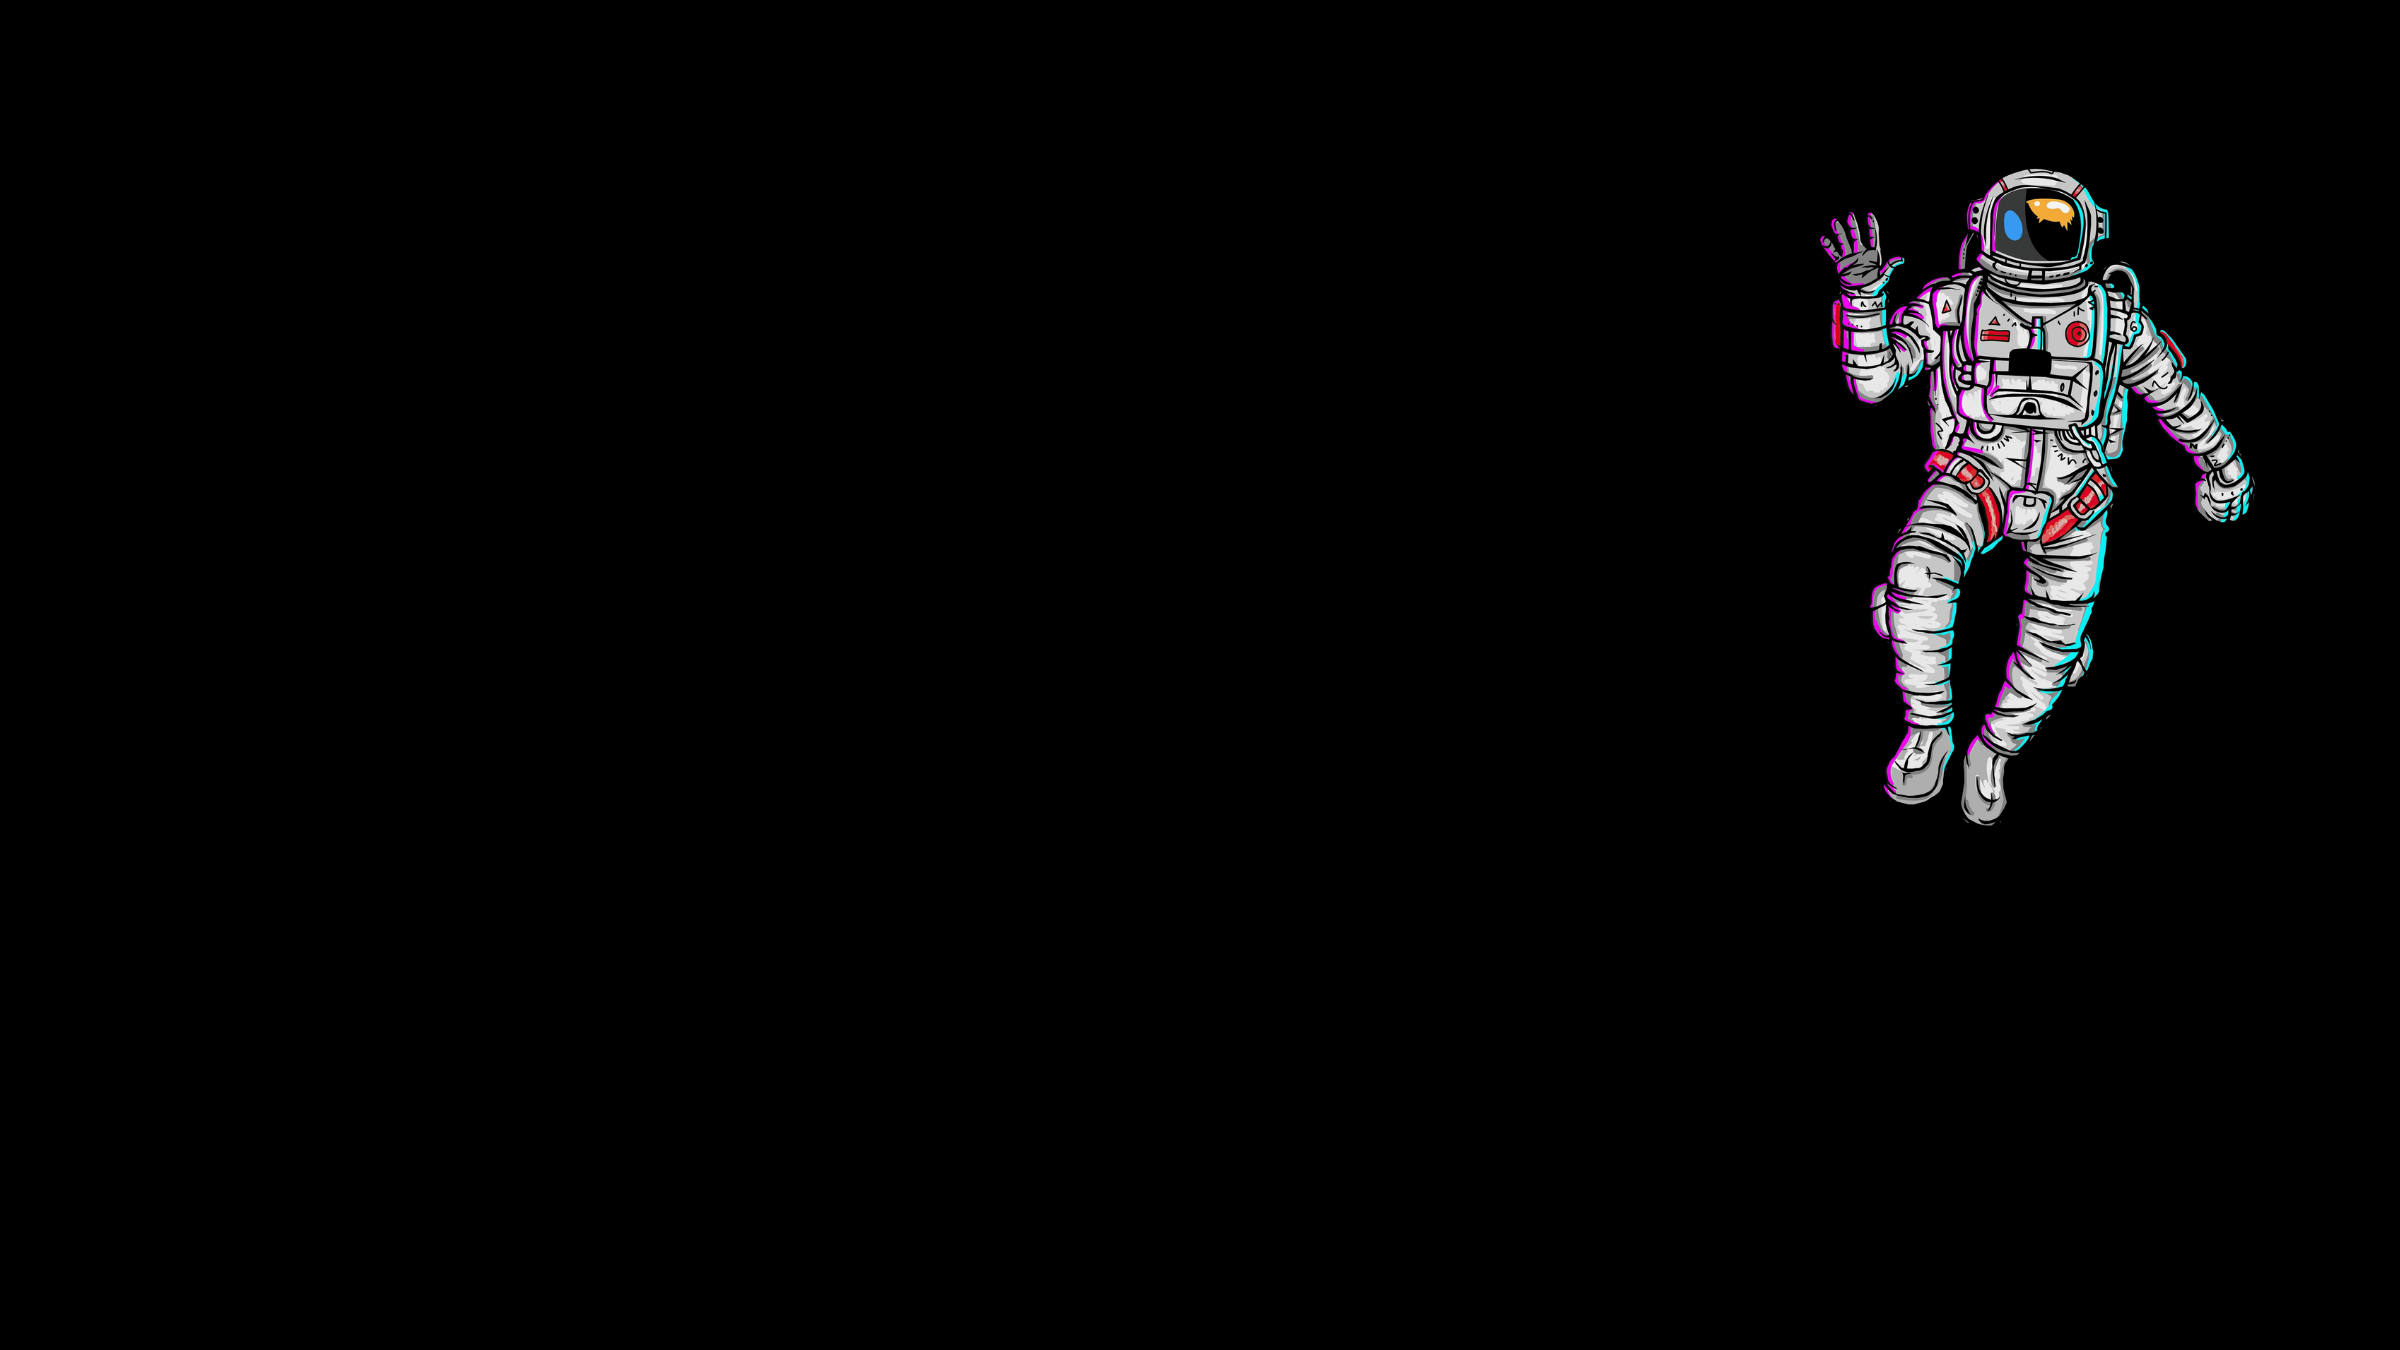
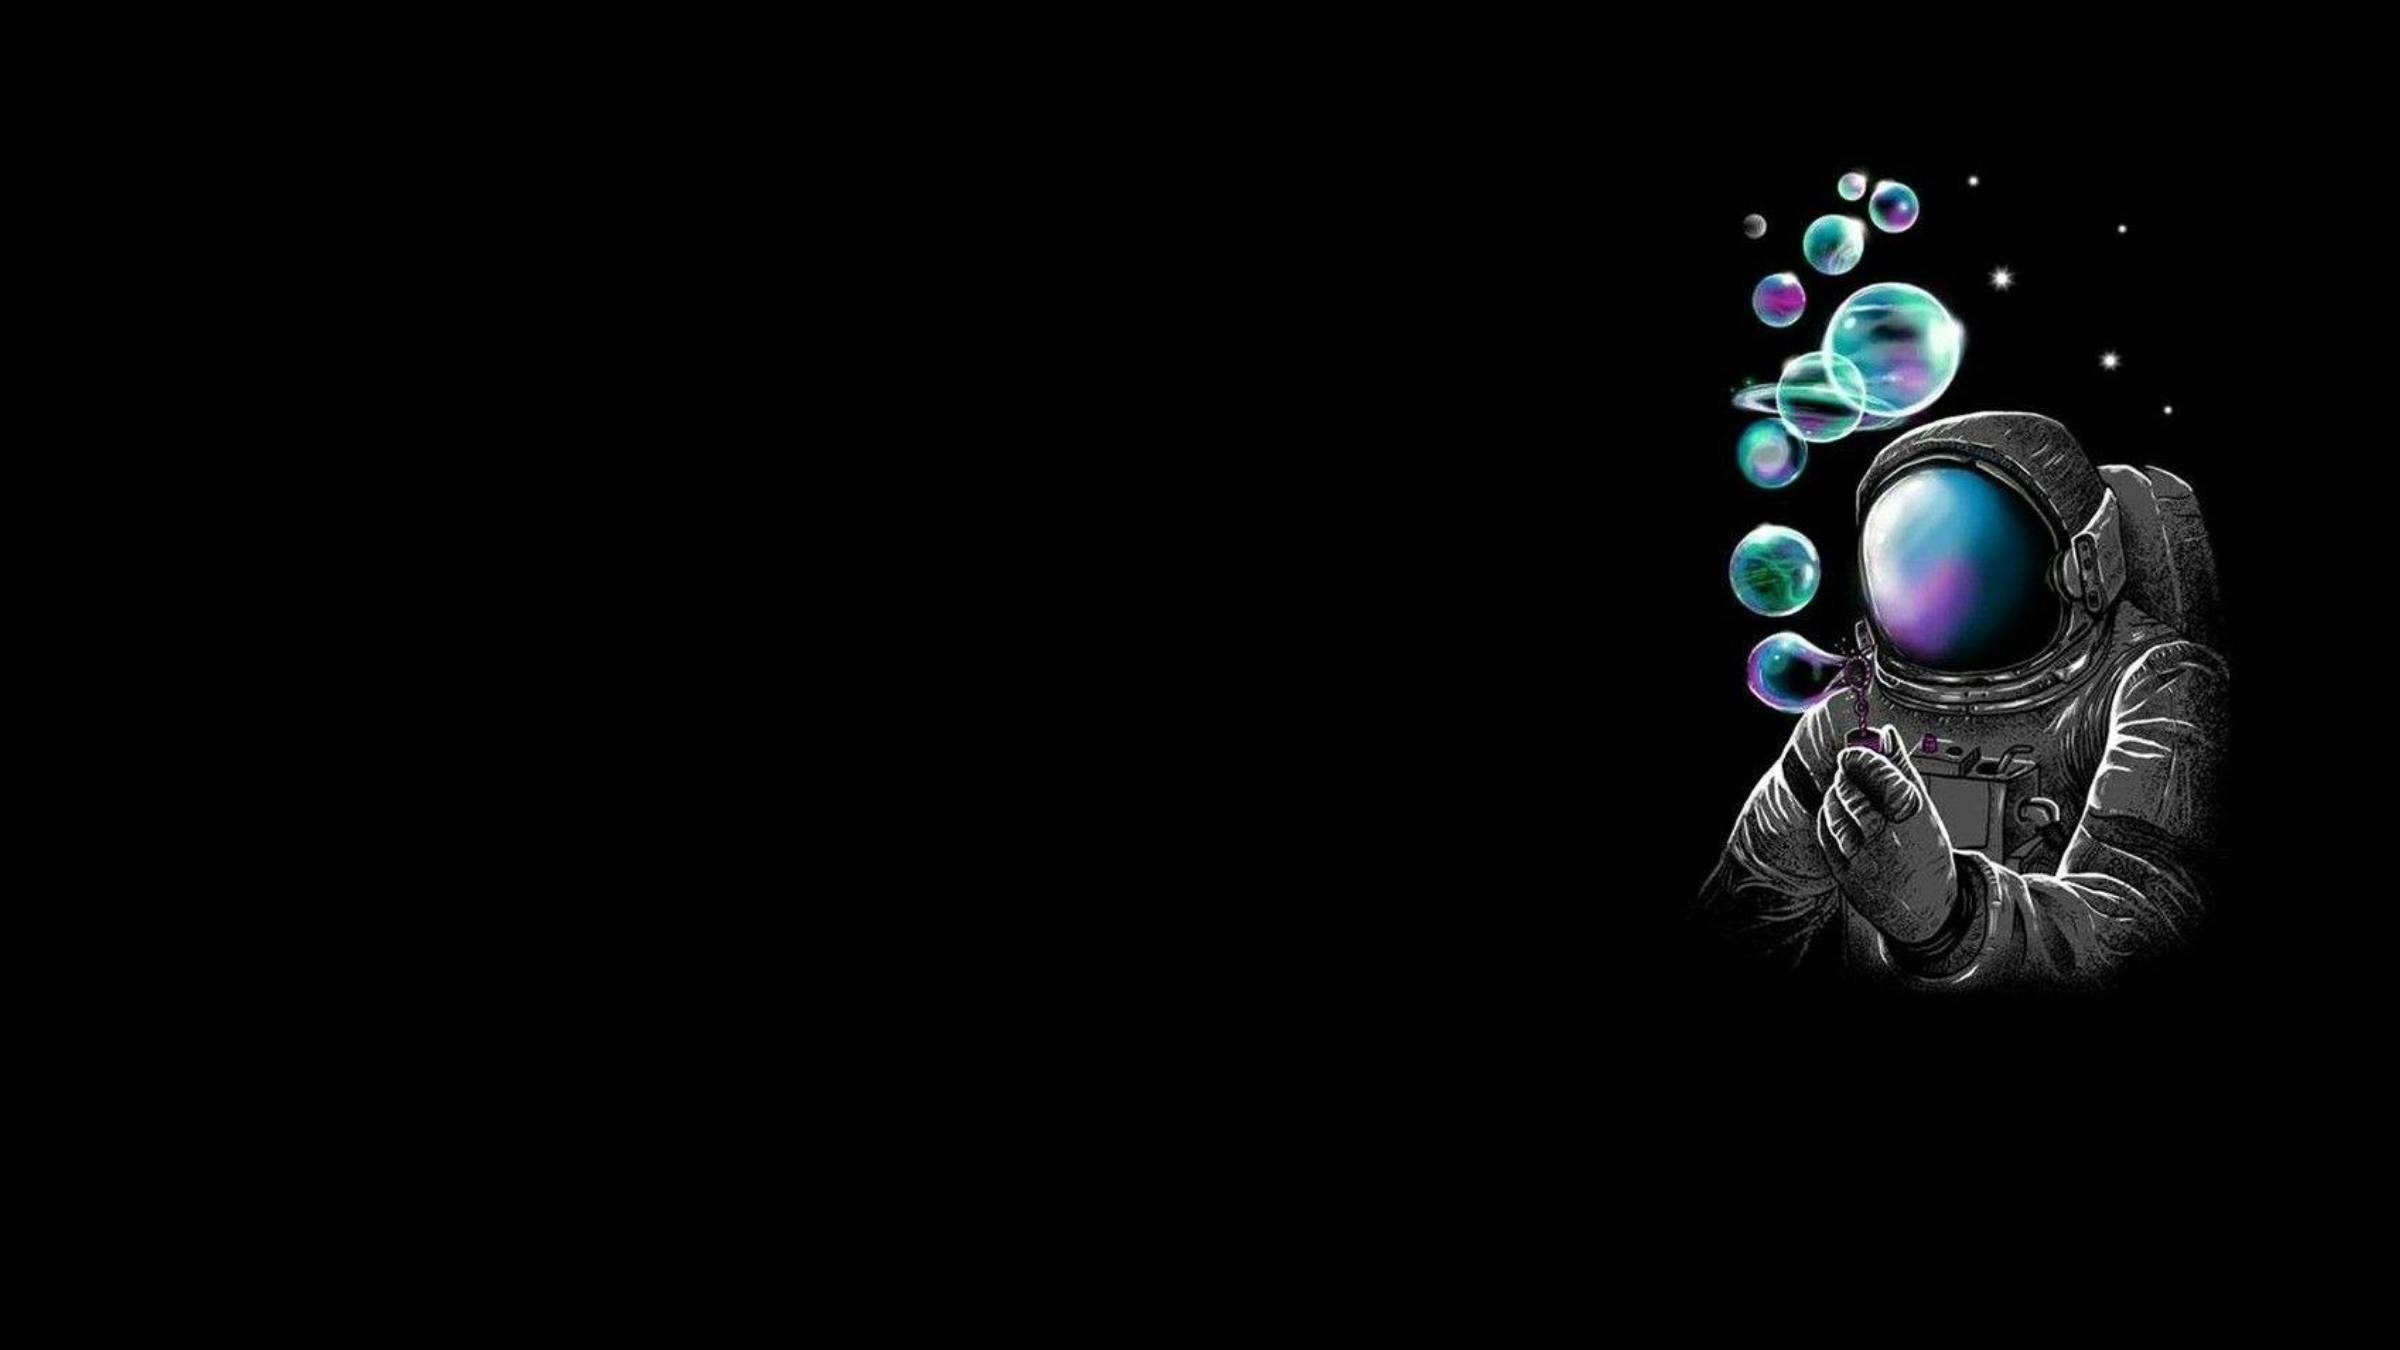
updated imagery and added contact

Changed region(s): [[0.7188, 0.1244, 0.9375, 0.7467]]

diff --git a/index.html b/index.html
@@ -26,120 +26,123 @@
   <div class="row-fluid">  
     <div class="col text-center">
       <h1 class="h1-hero">Andy Byers</h1>
-
-      
-
     </div>
-<div class="row">
+  </div>
+
+<div class="row mt-4">
     <div class="col text-center">
-      <button type="button" class="btn text-center"> View my Work </button>
+      <button type="button" class="btn btn-lg text-center"> View my Work </button>
     </div>
     <div class="col text-center">
     <p>Creative Web Developer</p>
     </div>
     <div class="col text-center">
-      <button type="button" class="btn text-center"> Contact Me </button>
+      <button type="button" class="btn btn-lg text-center"> Contact Me </button>
     </div>
 </div>
-  </div>
-  </div>
 </div>
 <!--end hero-->
 
 <!--about me-->
-<div class="container-fluid about-me mt-5">
-  <h2>About Me</h2>
-  <div class="container">
-  <div class="row align-items-center abt-row">
-    <div class="col-9">
+<div class="container-fluid about-me ">
+  <h2 class="mt-5">About Me</h2>
+  <div class="container align-items-center ">
+  <div class="row abt-row">
+    <div class="col-9 mt-5">
       <p>Tom, don't let anybody kid you. It's all personal, every bit of business. Every piece of shit every man has to eat every day of his life is personal. They call it business. OK. But it's personal as hell. You know where I learned that from? The Don. My old man. The Godfather. If a bolt of lightning hit a friend of his the old man would take it personal. He took my going into the Marines personal. That's what makes him great. The Great Don. He takes everything personal Like God. He knows every feather that falls from the tail of a sparrow or however the hell it goes? Right? And you know something? Accidents don't happen to people who take accidents as a personal insult.</p>
     </div>
     </div>
-  </div>
-  <div class="row align-items-center mt-4 skills-row">
-    <div class="col-2 offset-2">
+  
+  <div class="row align-items-center mt-5 skills-row">
+    <div class="col-2 offset-3">
       <p><i class="devicon-html5-plain colored"></i> HTML</p>
       <p><i class="devicon-javascript-plain colored"></i> JavaScript</p>
-    </div>
-    <div class="col-2">
       <p><i class="devicon-css3-plain colored"></i> CSS (+SASS)</p>
-      <p><i class="devicon-bootstrap-plain colored"></i> Bootstrap</p>
-      <p><i class="devicon-react-original colored"></i> React</p>
     </div>
     <div class="col-2">
+      <p><i class="devicon-react-original colored"></i> React</p>
       <p><i class="devicon-nodejs-plain colored"></i> NodeJS</p>
       <p><span class="iconify" data-icon="simple-icons:jekyll" data-inline="false"></span> Jekyll</p>
       <p><i class="devicon-wordpress-plain"></i> WordPress</p>
-    </div>  
+    </div>
     <div class="col-2">
+      <p><i class="devicon-bootstrap-plain colored"></i> Bootstrap</p>
       <p><i class="devicon-git-plain colored"></i> Git & GitHub</p>
       <p><span class="iconify" data-icon="fa-solid:project-diagram" data-inline="false"></span> APM</p>
-    </div> 
-    </div>
+    </div>  
   </div>
+  </div>
+</div>
 <!--end about me-->
 
 <!--portfolio-->
-<!--<div class="container-fluid">
-  <div class="row">
-    <div class="row justify-content-center title-row">
-      <h2 style="font-size: 180px;">Recent Work</h2>
-    </div>
-  </div>
-</div>-->
+<div class="container-fluid mt-5">
+  <h2 class="text-center h1-rw">Recent Work</h2>
+  <div class="container">
+  <div class="card-deck portfolio-deck">
 
-<div class="container mt-5">
-  <h2>Recent Work</h2>
-  <div class="card-deck">
     <div class="card">
-      <img src="/images/website-placeholder.jpg" class="img-fluid" alt="Card image cap">
-      <h4 class="card-title"><a>Card title</a></h4>
-      <p class="card-text">Some quick example text to build on the card title and make up the bulk of the card's content.</p>
-      <span><a href="#" class="btn">View</a><a href="#" class="btn">GitHub</a></span>
-      
+      <img src="/images/sleek-minx-img.png" class="img-fluid" alt="Card image cap">
+      <div class="card-body d-flex flex-column">
+        <h4 class="card-title"><a>Sleek Minx</a></h4>
+        <p class="card-text">I don't trust society to protect us, I have no intention of placing my fate in the hands of men whose only qualification is that they managed to con a block of people to vote for them.</p>
+        <span class="mt-auto text-center"><a href="#" class="btn">View Site</a>&nbsp;<a href="#" class="btn">View Code</a></span>
+      </div>
     </div>
 
     <div class="card">
-      <img src="/images/website-placeholder.jpg" class="img-fluid" alt="Card image cap">
-      <h4 class="card-title"><a>Card title</a></h4>
-      <p class="card-text">Some quick example text to build on the card title and make up the bulk of the card's content.</p>
-      <span><a href="#" class="btn">View</a><a href="#" class="btn">GitHub</a></span>
+      <img src="/images/maykind-site.png" class="img-fluid" alt="screenshot from maykind.com">
+      <div class="card-body d-flex flex-column">
+        <h4 class="card-title"><a>Maykind.com</a></h4>
+        <p class="card-text">Italians have a little joke, that the world is so hard a man must have two fathers to look after him, and that's why they have godfathers.</p>
+        <span class="mt-auto text-center"><a href="#" class="btn">View Site</a>&nbsp;<a href="#" class="btn">View Code</a></span>
+      </div>
     </div>
 
+
     <div class="card">
-      <img src="/images/website-placeholder.jpg" class="img-fluid" alt="Card image cap">
-      <h4 class="card-title"><a>Card title</a></h4>
-      <p class="card-text">Some quick example text to build on the card title and make up the bulk of the card's content.</p>
-      <span><a href="#" class="btn">View</a><a href="#" class="btn">GitHub</a></span>
+      <img src="/images/obsidian-rd.png" class="img-fluid" alt="screenshot from Obsidian MD theme redesign">
+      <div class="card-body d-flex flex-column">
+        <h4 class="card-title"><a>Obsidian Theme Redesign</a></h4>
+        <p class="card-text">Why should I be afraid now? Strange men have come to kill me ever since I was twelve years old.</p>
+        <span class="mt-auto text-center"><a href="#" class="btn">Screenshots</a>&nbsp;<a href="#" class="btn">View Code</a></span>
+      </div>
     </div>
 
   </div>
 </div>
 
 <div class="container mt-5">
-  <div class="card-deck">
+  <div class="card-deck portfolio-deck">
+
     <div class="card">
-      <img src="/images/website-placeholder.jpg" class="img-fluid" alt="Card image cap">
-      <h4 class="card-title"><a>Card title</a></h4>
-      <p class="card-text">Some quick example text to build on the card title and make up the bulk of the card's content.</p>
-      <span><a href="#" class="btn">View</a><a href="#" class="btn">GitHub</a></span>
-      
+      <img src="/images/placeholder.png" class="img-fluid" alt="screenshot from Obsidian MD theme redesign">
+      <div class="card-body d-flex flex-column">
+        <h4 class="card-title"><a>Placeholder</a></h4>
+        <p class="card-text">Friendship is everything. Friendship is more than talent. It is more than the government. It is almost the equal of family.</p>
+        <span class="mt-auto text-center"><a href="#" class="btn">View Site</a>&nbsp;<a href="#" class="btn">View Code</a></span>
+      </div>
     </div>
 
     <div class="card">
-      <img src="/images/website-placeholder.jpg" class="img-fluid" alt="Card image cap">
-      <h4 class="card-title"><a>Card title</a></h4>
-      <p class="card-text">Some quick example text to build on the card title and make up the bulk of the card's content.</p>
-      <span><a href="#" class="btn">View</a><a href="#" class="btn">GitHub</a></span>
+      <img src="/images/placeholder.png" class="img-fluid" alt="screenshot from Obsidian MD theme redesign">
+      <div class="card-body d-flex flex-column">
+        <h4 class="card-title"><a>Placeholder</a></h4>
+        <p class="card-text">Friendship is everything. Friendship is more than talent. It is more than the government. It is almost the equal of family.</p>
+        <span class="mt-auto text-center"><a href="#" class="btn">View Site</a>&nbsp;<a href="#" class="btn">View Code</a></span>
+      </div>
     </div>
 
     <div class="card">
-      <img src="/images/website-placeholder.jpg" class="img-fluid" alt="Card image cap">
-      <h4 class="card-title"><a>Card title</a></h4>
-      <p class="card-text">Some quick example text to build on the card title and make up the bulk of the card's content.</p>
-      <span><a href="#" class="btn">View</a><a href="#" class="btn">GitHub</a></span>
+      <img src="/images/placeholder.png" class="img-fluid" alt="screenshot from Obsidian MD theme redesign">
+      <div class="card-body d-flex flex-column">
+        <h4 class="card-title"><a>Placeholder</a></h4>
+        <p class="card-text">Friendship is everything. Friendship is more than talent. It is more than the government. It is almost the equal of family.</p>
+        <span class="mt-auto text-center"><a href="#" class="btn">View Site</a>&nbsp;<a href="#" class="btn">View Code</a></span>
+      </div>
     </div>
 
+    </div>
   </div>
 </div>
 
@@ -147,19 +150,16 @@
 
 <!--contact me-->
 
-<div class="container-fluid mt-5">
-  <h2>Contact Me</h2>
-  <div class="container">
-  <div class="row align-items-center">
-    <div class="col-9">
-      <p>Tom, don't let anybody kid you. It's all personal, every bit of business. Every piece of shit every man has to eat every day of his life is personal. They call it business. OK. But it's personal as hell. You know where I learned that from? The Don. My old man. The Godfather. If a bolt of lightning hit a friend of his the old man would take it personal. He took my going into the Marines personal. That's what makes him great. The Great Don. He takes everything personal Like God. He knows every feather that falls from the tail of a sparrow or however the hell it goes? Right? And you know something? Accidents don't happen to people who take accidents as a personal insult.</p>
-    </div>
-    </div>
+<div class="container-fluid contact-me text-right">
+  <div class="container mt-5">
+  <h2 class="mt-5">Contact Me</h2>
+  <p class="mt-5">You can message me direct at <a href="mailto:andy@maykind.com">andy@maykind.com</a> with any queries or comments.</p>
   </div>
 </div>
 
 <!--end contact me-->
   
+
 
 
 <!--footer-->

diff --git a/css/style.css b/css/style.css
@@ -1,5 +1,3 @@
-
-
 :root {
   --off-white: #f8f8f2;
   --primary-red: #f23759;
@@ -15,10 +13,12 @@ body {
   font-size: 16px;
   font-family: Menlo, Monaco, 'Courier New', monospace;
   text-transform: uppercase;
+  color: var(--off-white);
 }
 
 h2 {
   font-size: 90px;
+  color: var(--primary-yellow)
 }
 
 .title-row {
@@ -30,18 +30,18 @@ h2 {
 /* hero */
 
 .h1-hero {
-  font-size: 21.6vw;
+  font-size: 20vw;
 }
 
 .hero {
-  min-height: 100vh;
-  background: url(/images/hero-img-2.png) no-repeat 50% 50%;
+  height: 100vh;
+  background: url(/images/hero-img.png) no-repeat 50% 50%;
   background-size: cover;
   color: var(--secondary-yellow);
 }
 
 .btn {
-  padding: 10px;
+  padding: 11px;
   text-transform: lowercase;
   font-weight: bold;
   transition: 0.5s;
@@ -66,30 +66,37 @@ h2 {
 .about-me {
   background: url(/images/abt-img.png) no-repeat 50% 50%;
   background-size: cover;
-  color: var(--off-white);
   min-height: 100vh;
 }
 
 /* Skills */
 
 .skills-row {
-  height: 150px;
+  min-height: 150px;
 }
 
 /* Portfolio */
 
-.portfolio {
-  background: rgb(248, 248, 242);
-  background: linear-gradient(
-    194deg,
-    rgba(248, 248, 242, 1) 0%,
-    rgba(248, 248, 242, 1) 61%,
-    rgba(242, 55, 89, 1) 100%
-  );
+.h1-rw {
+  font-size: 13vw;
+  color: var(--primary-yellow)
 }
 
 .portfolio-row {
   height: 750px;
+}
+
+/* Cards */
+.portfolio-deck {
+  color: var(--primary-text);
+}
+
+/* Contact */
+
+.contact-me {
+  background: url(/images/contact-img.png) no-repeat 50% 50%;
+  background-size: cover;
+  min-height: 100vh;
 }
 
 /* Footer */
@@ -97,4 +104,6 @@ h2 {
 .page-footer {
   padding: 10px;
   font-size: 12px;
+  background: url(/images/footer-img.png) no-repeat 50% 50%;
+  background-size: cover;
 }
